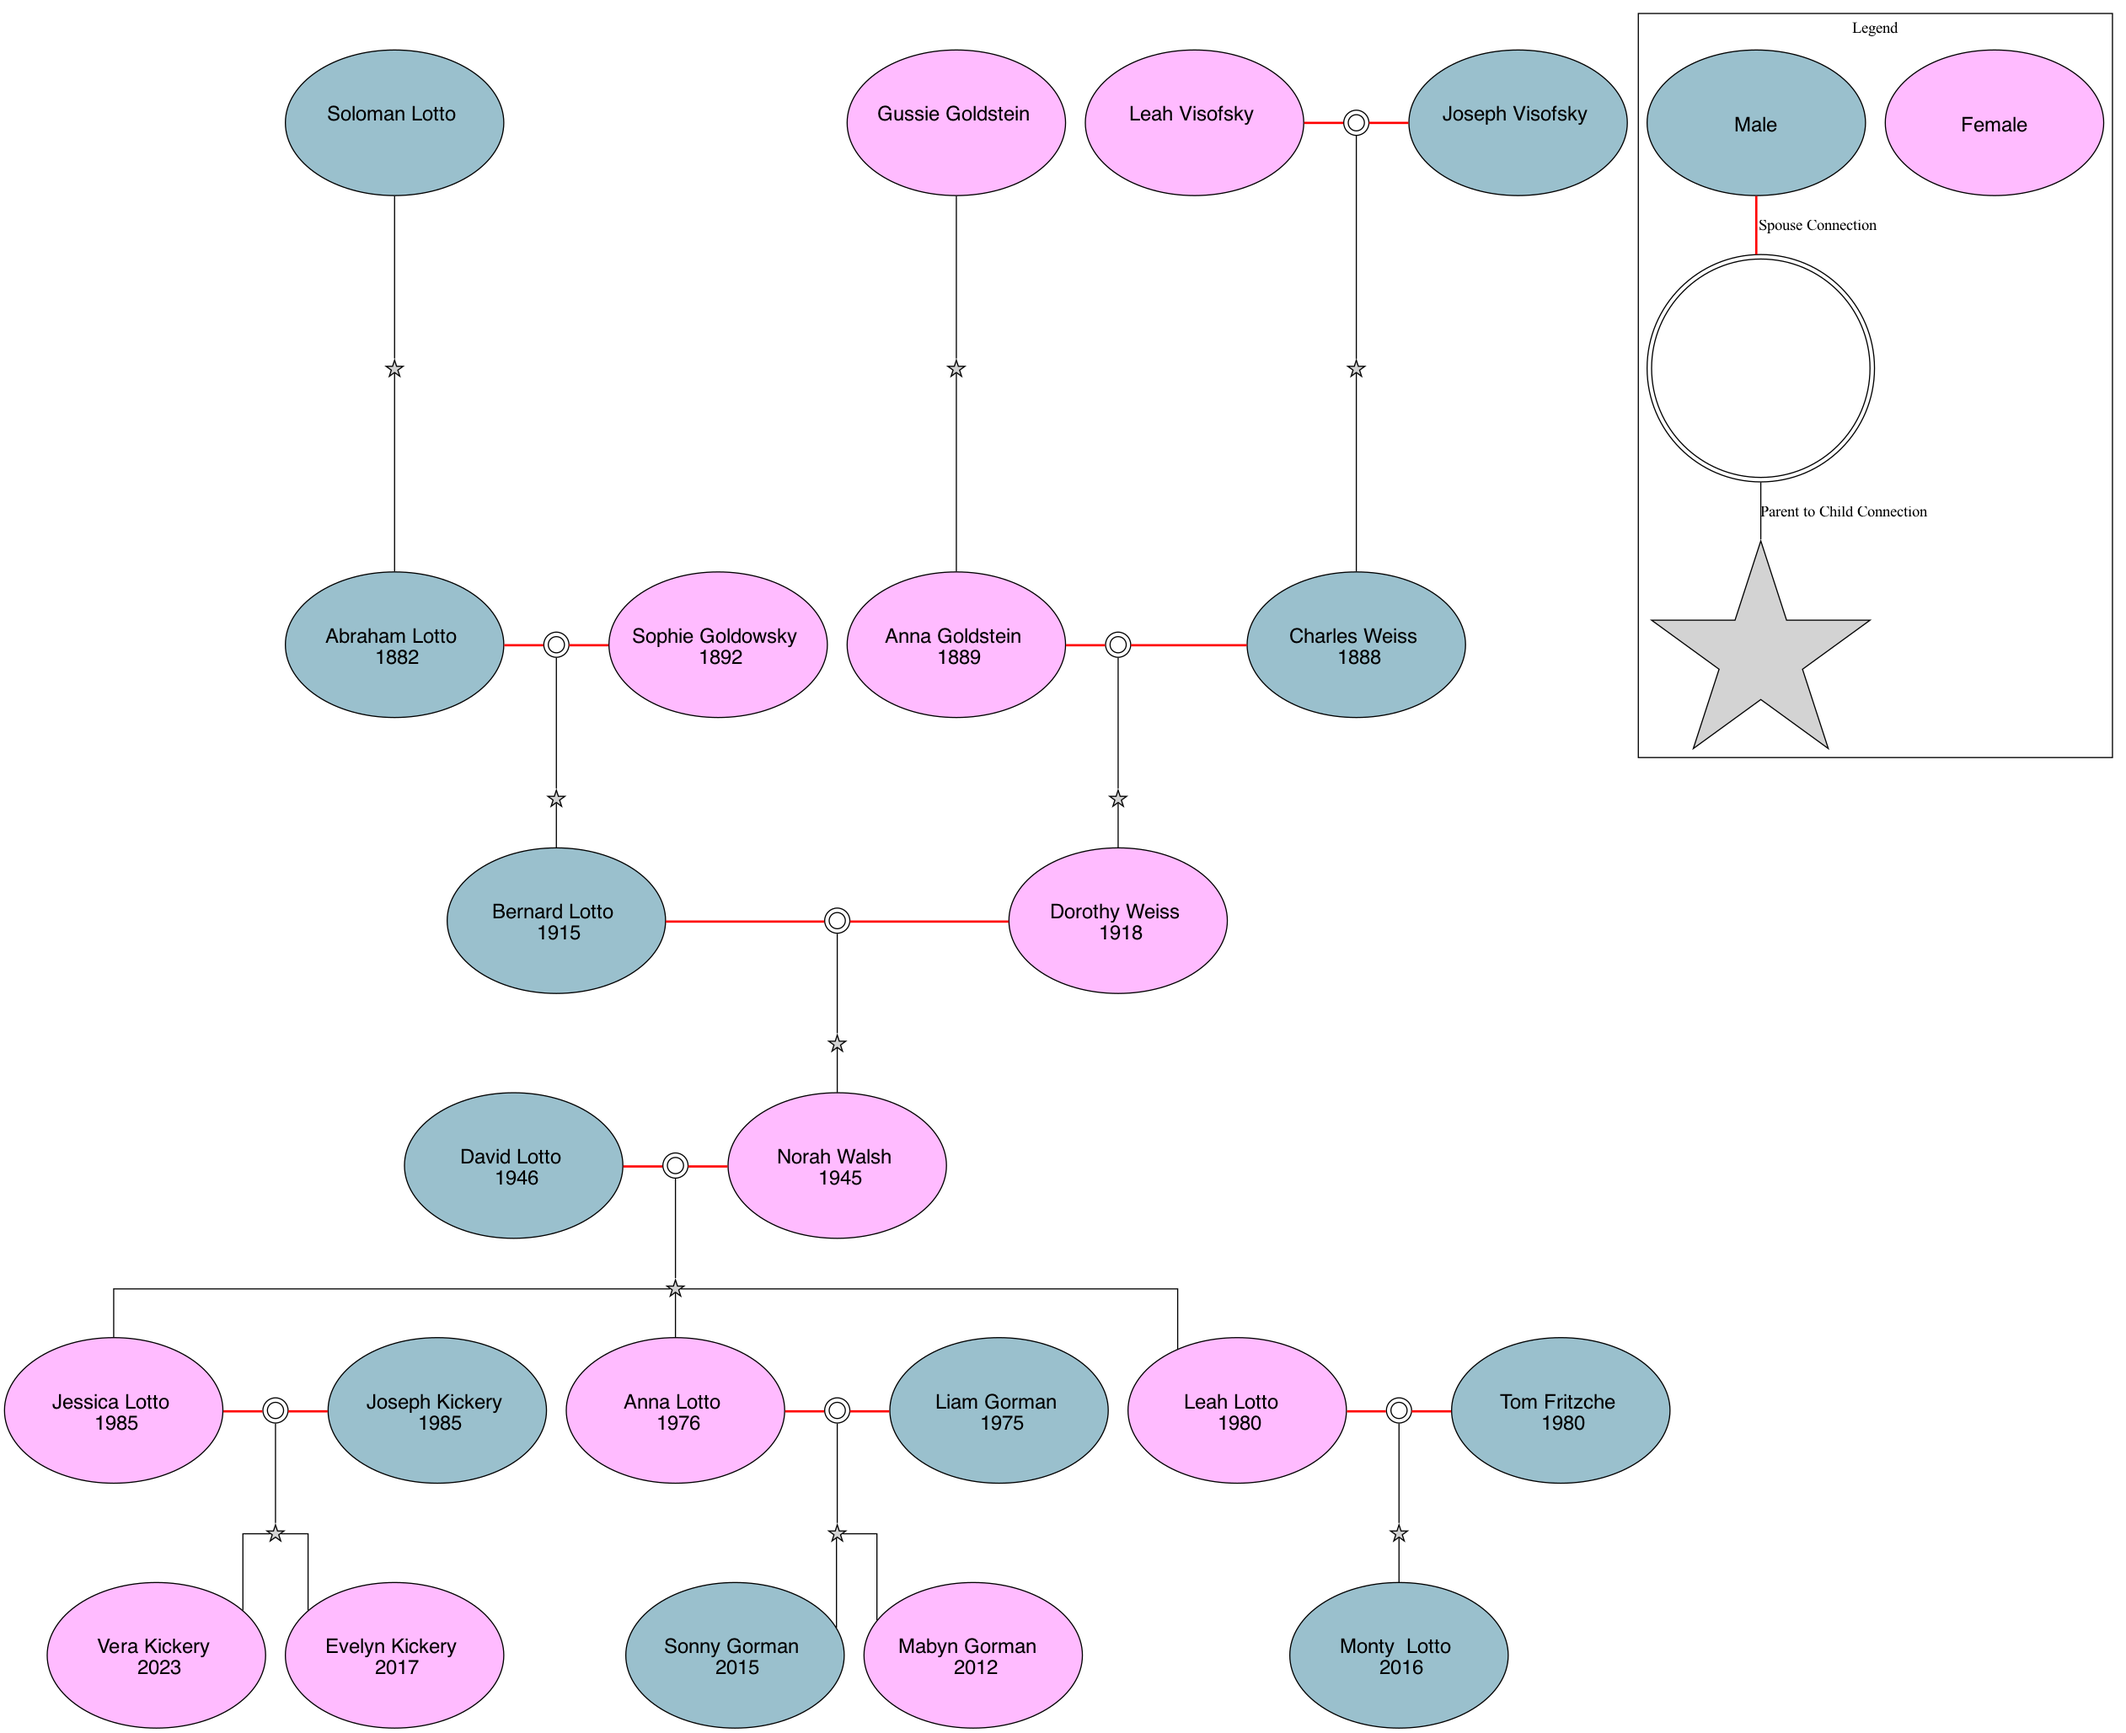
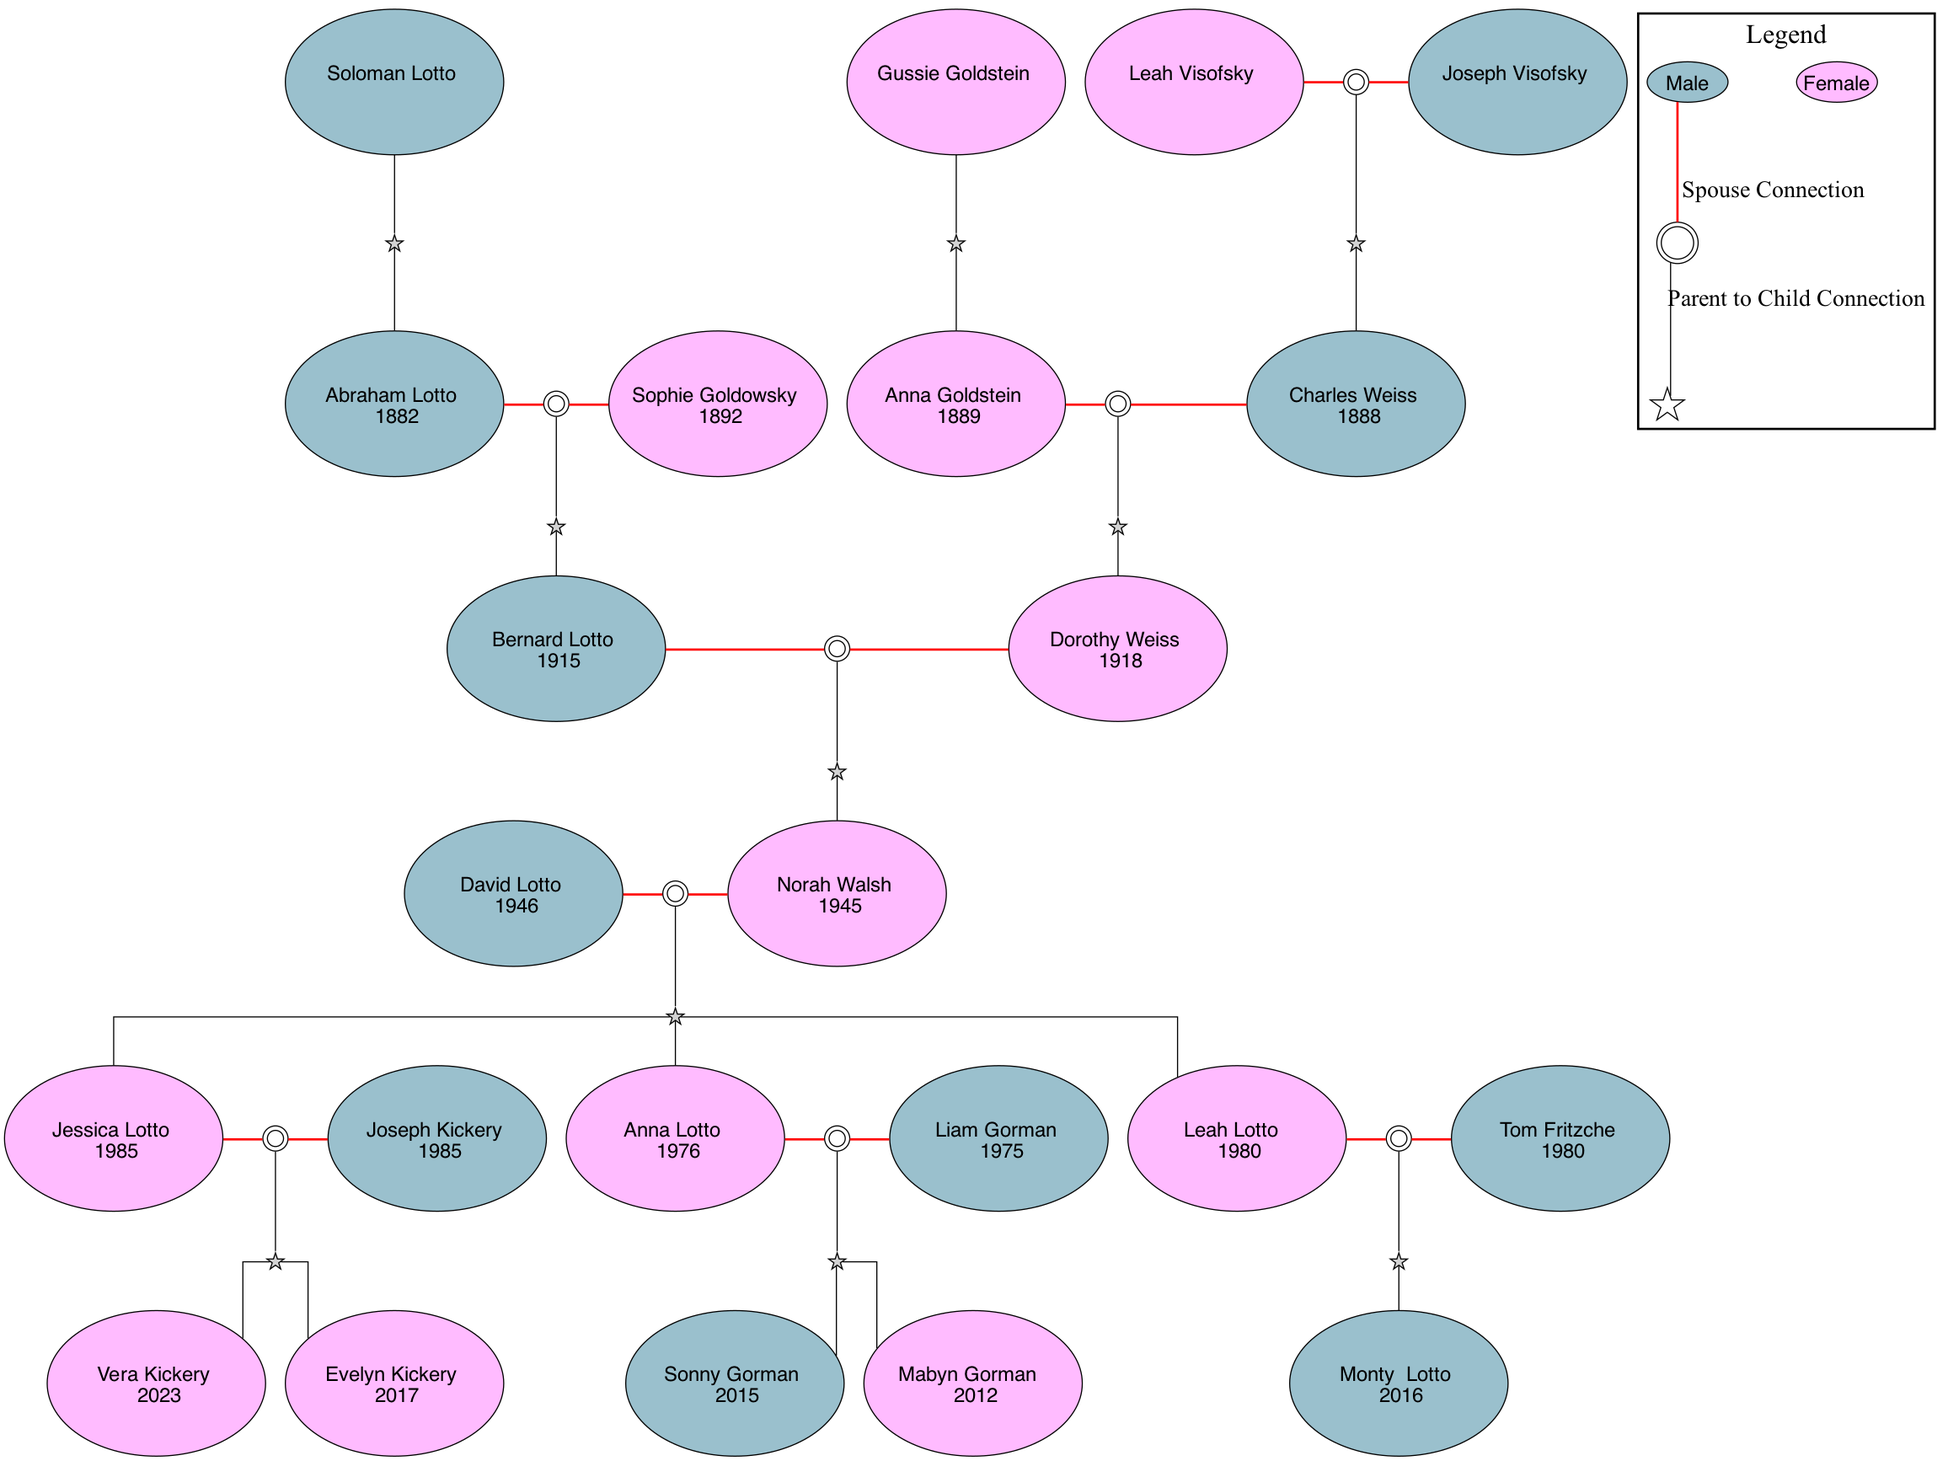
add .gitignore

diff --git a/family_tree/bigger_family.py b/family_tree/bigger_family.py
@@ -86,20 +86,20 @@ def create_family_tree(people):
             for child in person.children:
                 dot.edge(child_connect, str(child.id), style='solid', len='2.0', weight='3', dir='none')  # Connect child connection node to children nodes
 
-
-def add_legend(dot):
-    with dot.subgraph(name='cluster_legend') as legend:
-        legend.attr(label='Legend', color='black')
-        legend.node('Male', 'Male', fillcolor='lightblue3')
-        legend.node('Female', 'Female', fillcolor='plum1')
-        legend.node('SpouseJoint', '', shape='doublecircle', style='solid')
-        legend.node('ChildConnect', '', shape='star')
-        legend.edge('SpouseJoint', 'ChildConnect', label='Parent to Child Connection', style='solid', dir='none')
-        legend.edge('Male', 'SpouseJoint', label='Spouse Connection', style='bold', color='red', dir='none')
-
     add_legend(dot)
     dot.render('output/bigger_tree', view=True)  # Render the family tree graph as a PNG image
 
+
+def add_legend(dot):
+    with dot.subgraph(name='cluster_legend') as legend:
+        legend.attr(label='Legend', color='black',style='bold', fontsize='24')  
+        legend.node('Male', 'Male', fillcolor='lightblue3', shape='ellipse', width='1', height='0.5', fixedsize='true')  
+        legend.node('Female', 'Female', fillcolor='plum1', shape='ellipse', width='1', height='0.5', fixedsize='true')  
+        legend.node('SpouseJoint', '', shape='doublecircle', style='solid', width='0.4', height='0.4')  
+        legend.node('ChildConnect', '', shape='star', style='solid', width='0.4', height='0.4')  
+        legend.edge('SpouseJoint', 'ChildConnect', label='Parent to Child Connection', style='solid', dir='none', fontsize='21')
+        legend.edge('Male', 'SpouseJoint', label='Spouse Connection', style='bold', color='red', dir='none', fontsize='21')
+   
 
 # This is the main script for creating the family tree using Graphviz.
 def main():

diff --git a/family_tree/family_tree.py b/family_tree/family_tree.py
@@ -39,7 +39,22 @@ def create_family_tree(people):
             for child in person.children:
                 dot.edge(child_connect, str(child.id), style='solid', len='2.0', weight='3', dir='none')  # Connect child connection node to children nodes
 
+    # Add legend to the graph
+    add_legend(dot)
     dot.render('output/family_tree', view=True)  # Render the family tree graph as a PNG image
+
+
+def add_legend(dot):
+    with dot.subgraph(name='cluster_legend') as legend:
+        legend.attr(label='Legend', color='black',style='bold', fontsize='24')  
+        legend.node('Male', 'Male', fillcolor='lightblue3', shape='ellipse', width='1', height='0.5', fixedsize='true')  
+        legend.node('Female', 'Female', fillcolor='plum1', shape='ellipse', width='1', height='0.5', fixedsize='true')  
+        legend.node('SpouseJoint', '', shape='doublecircle', style='solid', width='0.4', height='0.4')  
+        legend.node('ChildConnect', '', shape='star', style='solid', width='0.4', height='0.4')  
+        legend.edge('SpouseJoint', 'ChildConnect', label='Parent to Child Connection', style='solid', dir='none', fontsize='21')
+        legend.edge('Male', 'SpouseJoint', label='Spouse Connection', style='bold', color='red', dir='none', fontsize='21')
+
+
 
 # This is the main script for creating the family tree using Graphviz.
 def main():
